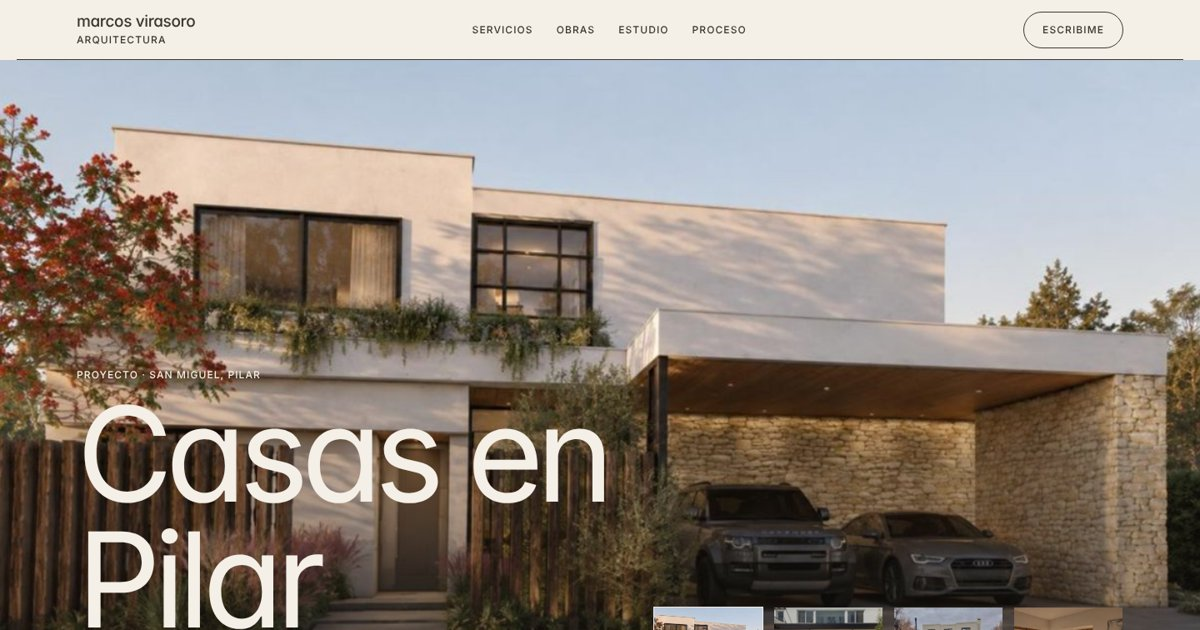
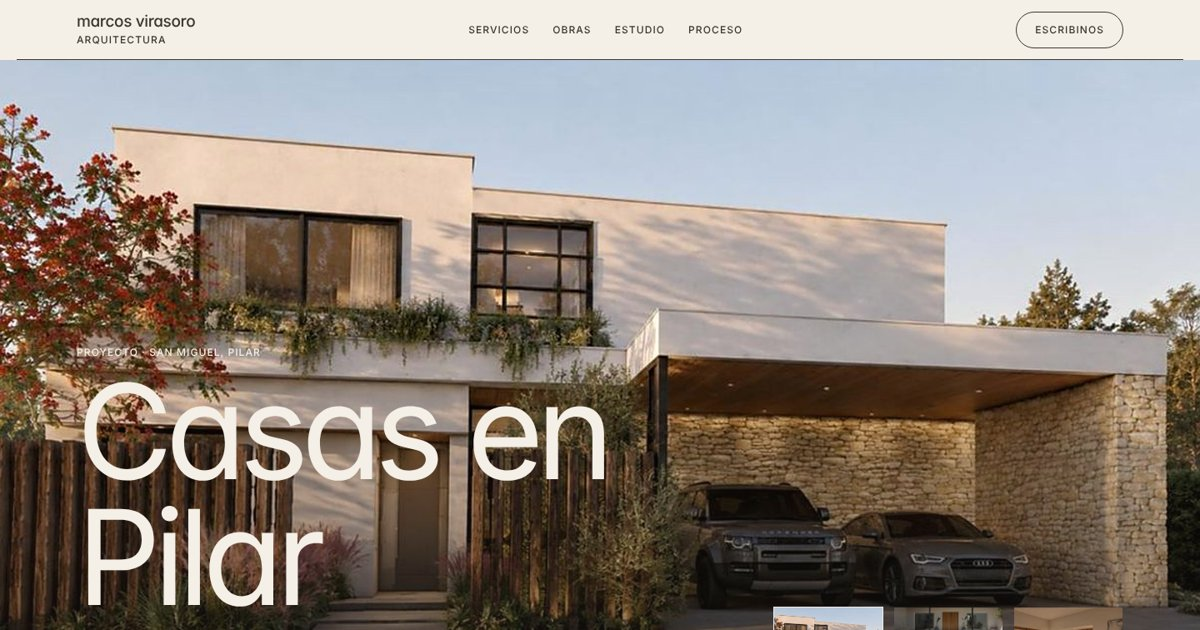
Vista previa al compartir el link (WhatsApp, Instagram)
Claude-Session: https://claude.ai/code/session_01TEnw4XWmWtiikwQVsm34Hd

diff --git a/index.html b/index.html
@@ -7,7 +7,11 @@
 <meta name="description" content="Estudio de arquitectura en Pilar. Proyecto, construcción y paisajismo de casas y reformas en barrios cerrados de Pilar y Zona Norte, con el respaldo del Estudio Virasoro, desde 1912.">
 <meta property="og:title" content="Marcos Virasoro Arquitectura">
 <meta property="og:description" content="Casas en Pilar y Zona Norte, del proyecto a la llave.">
-<meta property="og:image" content="share.jpg">
+<meta property="og:image" content="https://marcosvirasoro97-arq.github.io/marcosvirasoro-arquitectura/share.jpg">
+<meta property="og:url" content="https://marcosvirasoro97-arq.github.io/marcosvirasoro-arquitectura/">
+<meta property="og:type" content="website">
+<meta name="twitter:card" content="summary_large_image">
+<link rel="canonical" href="https://marcosvirasoro97-arq.github.io/marcosvirasoro-arquitectura/">
 <meta name="theme-color" content="#f4efe7">
 <link rel="icon" href="favicon.svg" type="image/svg+xml">
 <style>
